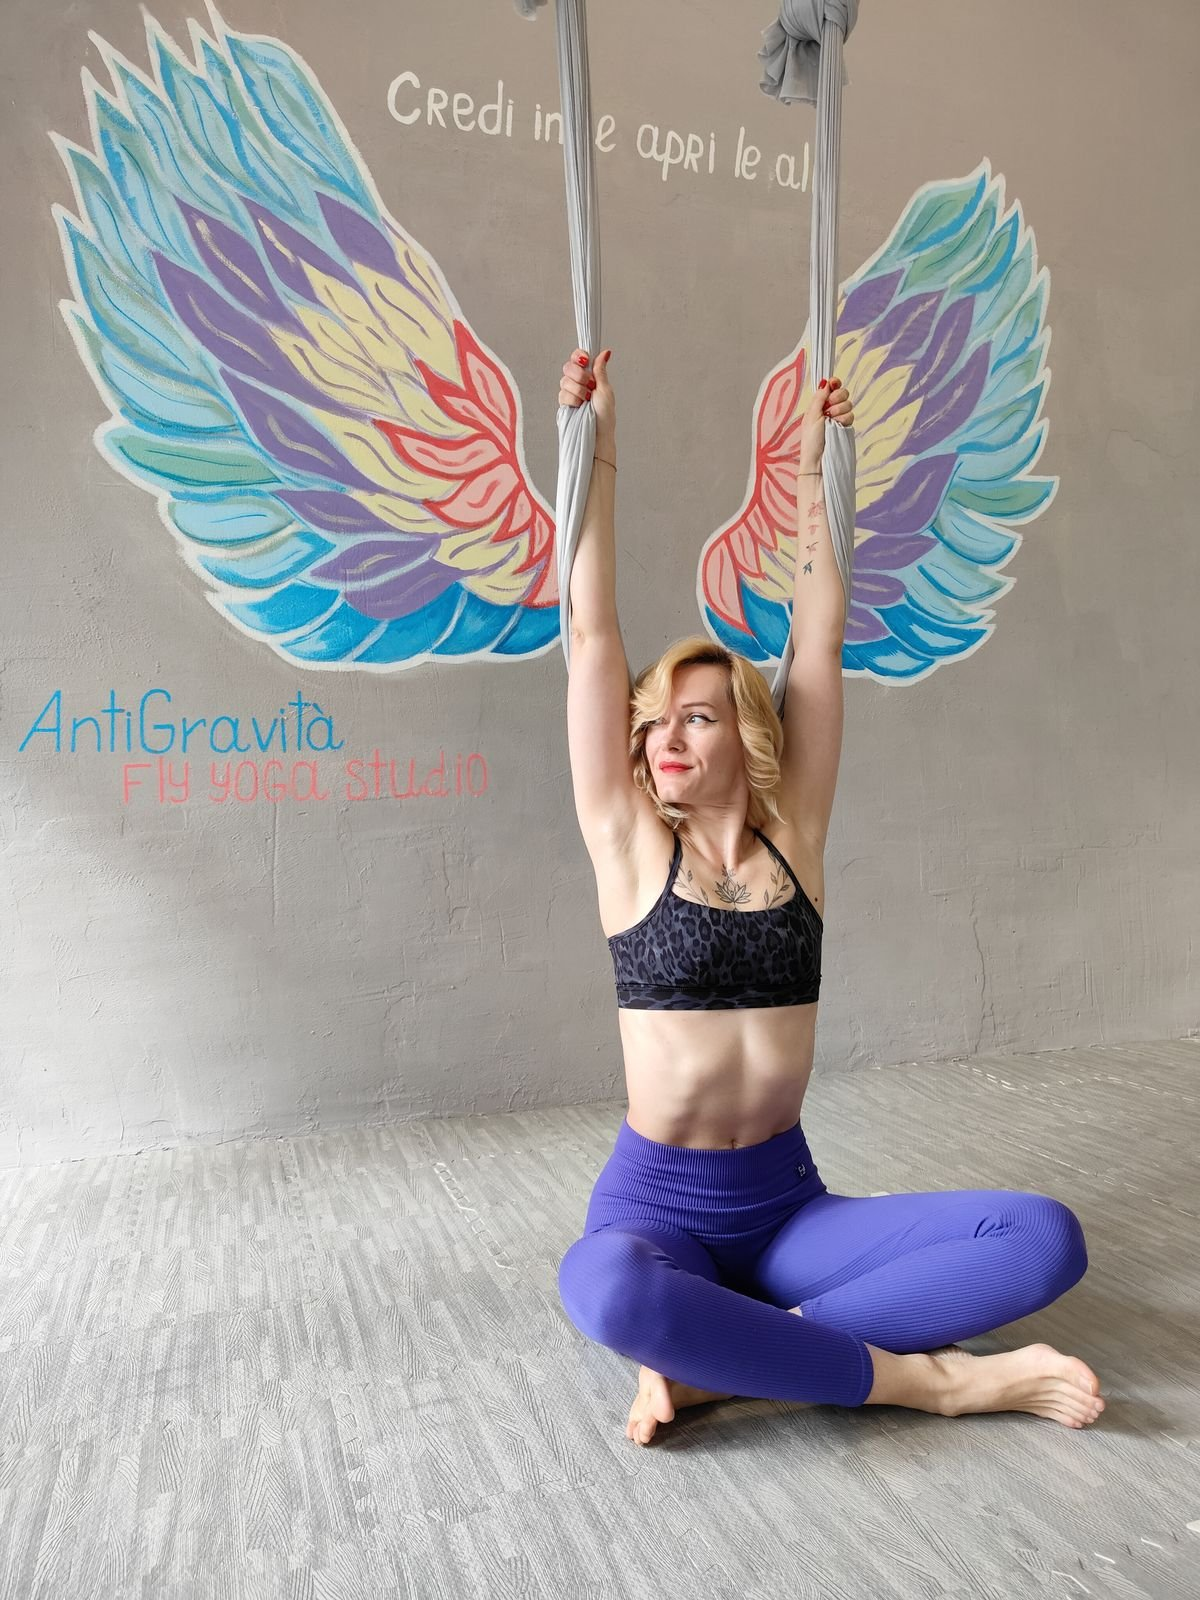
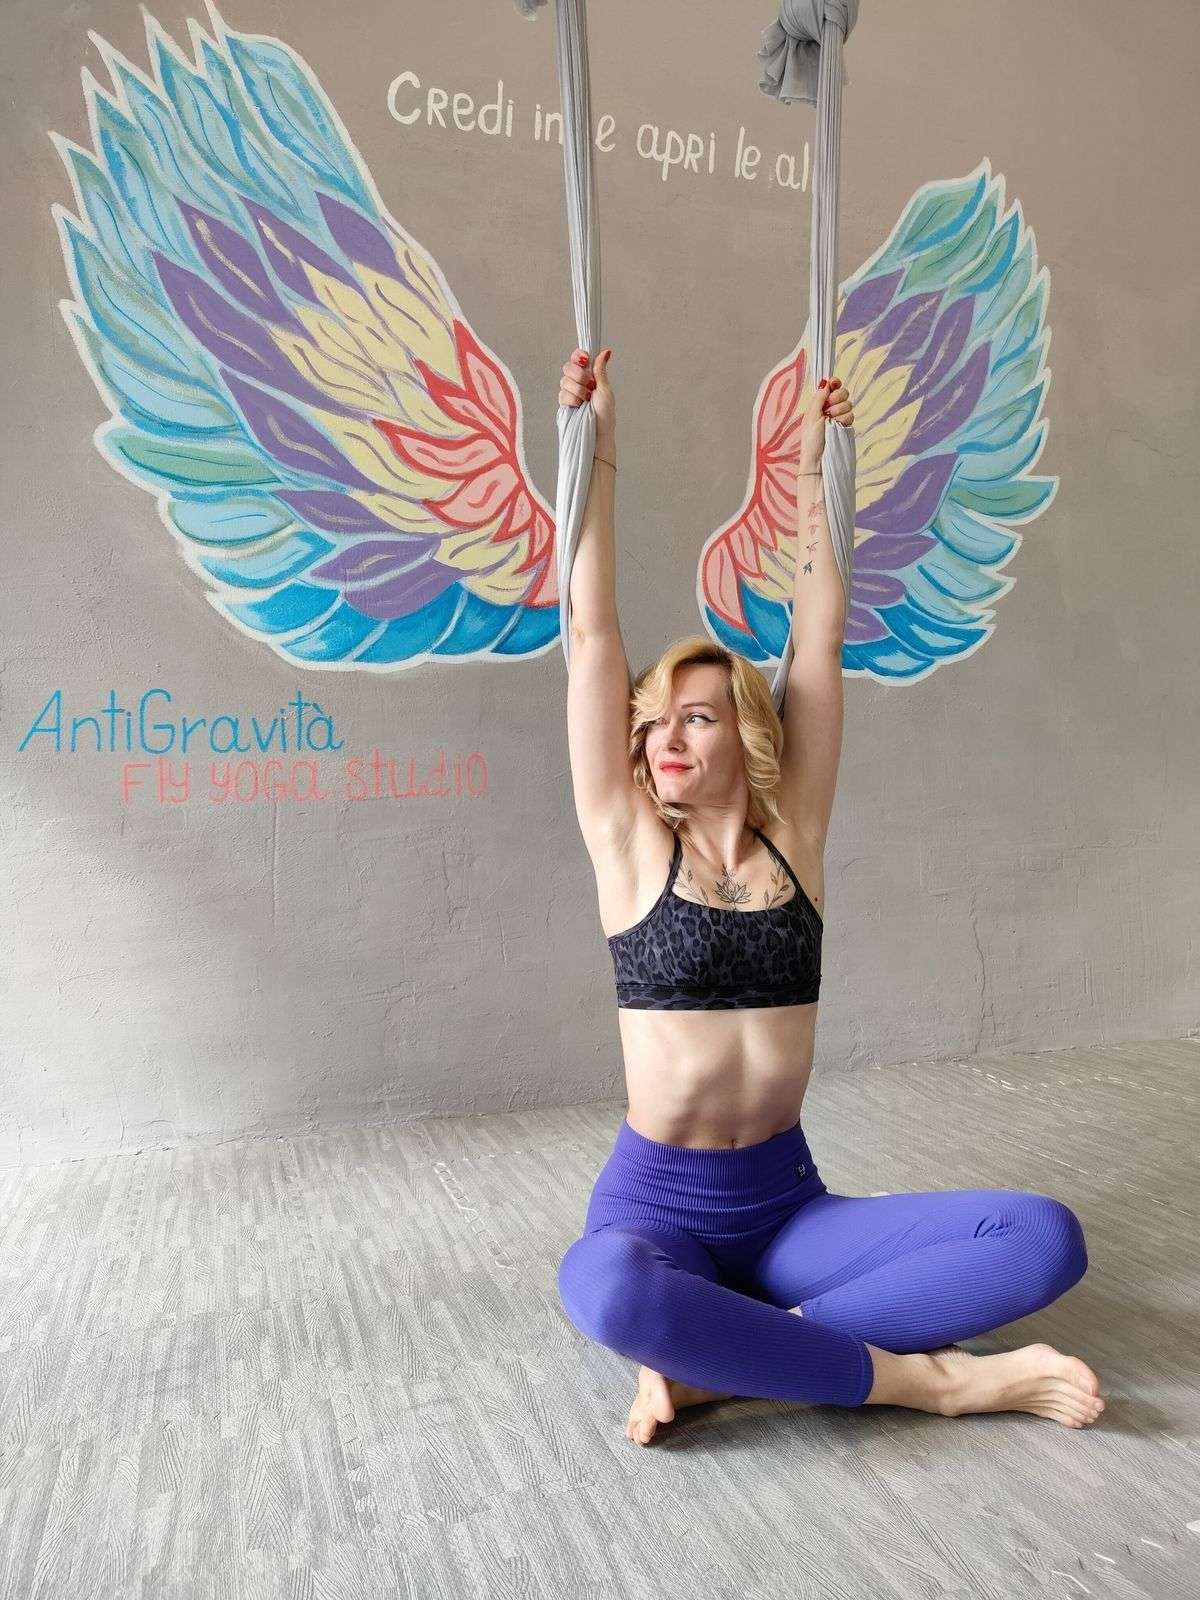
feat: optimize images and implement lazy loading for map
- Convert PNG images to JPG with appropriate quality settings to reduce file sizes
- Remove unused image files to clean up repository
- Replace image slider with static image for simpler implementation
- Implement lazy loading for Google Maps iframe to improve initial page load performance
- Update image references across HTML files to use optimized versions
- Add CSS for map placeholder facade with smooth transition
- Standardize image aspect ratios to prevent visual stretching

diff --git a/contatti.html b/contatti.html
@@ -174,36 +174,6 @@
         </section>
     </main>
 
-    <footer class="site-footer">
-        <div class="footer-content">
-            <div class="footer-info">
-                <h2>AntiGravità Fly Yoga</h2>
-                <p><strong>Indirizzo:</strong> Via Jacopo Cavalli 10/c, 34123 Trieste</p>
-                <p><strong>Telefono:</strong> +39 351 857 3757</p>
-                <p><strong>Email:</strong> <a href="mailto:AntiGravita.Fly@gmail.com">AntiGravita.Fly@gmail.com</a></p>
-                <p><strong>Orari:</strong> Vedi <a href="corsi-yoga-trieste">Corsi Yoga Trieste</a></p>
-                <div class="social-icons footer-social">
-                    <a href="https://www.facebook.com/people/Antigravita-Fly-yoga/61557041365775/" target="_blank" rel="noopener noreferrer" aria-label="Seguici su Facebook"><svg><use href="images/social-icons.svg#facebook"></use></svg></a>
-                    <a href="https://www.instagram.com/antigravita_flyyoga/#" target="_blank" rel="noopener noreferrer" aria-label="Seguici su Instagram"><svg><use href="images/social-icons.svg#instagram"></use></svg></a>
-                    <a href="https://wa.me/message/JEWWIAPMS4LUH1" target="_blank" rel="noopener noreferrer" aria-label="Contattaci su WhatsApp"><svg><use href="images/social-icons.svg#whatsapp"></use></svg></a>
-                    <a href="https://youtube.com/@antigravitaflyyoga?si=RKzEpfLxFcAZvHqu" target="_blank" rel="noopener noreferrer" aria-label="Guarda i nostri video su YouTube"><svg><use href="images/social-icons.svg#youtube"></use></svg></a>
-                </div>
-                <div style="margin-top: 1rem;">
-                     <a aria-label="Contattaci su WhatsApp" href="https://wa.me/message/JEWWIAPMS4LUH1" class="btn-prenota" target="_blank" rel="noopener noreferrer">Prenota online</a>
-                </div>
-            </div>
-            <div class="footer-map">
-                <iframe
-                    title="Mappa della sede AntiGravità Fly Yoga"
-                    src="https://www.google.com/maps/embed?pb=!1m18!1m12!1m3!1d2812.4876714559383!2d13.776899776191611!3d45.642431621012325!2m3!1f0!2f0!3f0!3m2!1i1024!2i768!4f13.1!3m3!1m2!1s0x477b6b7a62660a93%3A0x4611b97f6c66433!2sVia%20Jacopo%20Cavalli%2C%2010%2C%2034124%20Trieste%20TS%2C%20Italy!5e0!3m2!1sen!2s!4v1690000000000!5m2!1sen!2s"
-                    allowfullscreen=""
-                    loading="lazy"
-                    referrerpolicy="no-referrer-when-downgrade">
-                </iframe>
-            </div>
-        </div>
-    </footer>
-
     <script src="js/main.js"></script>
 </body>
 </html>

diff --git a/prezzi.html b/prezzi.html
@@ -10,7 +10,7 @@
     <link rel="stylesheet" href="css/prezzi.css">
     <link rel="stylesheet" href="css/modal.css">
     <link rel="canonical" href="https://antigravitaflyyoga.it/prezzi.html">
-    <link rel="preload" as="image" href="images/Listinoprezzi.png">
+    <link rel="preload" as="image" href="images/Listinoprezzi.jpg">
 
     <!-- Open Graph / Facebook -->
     <meta property="og:type" content="website">
@@ -87,7 +87,7 @@
         <section id="prezzi" class="page-section">
             <h1>Prezzi Fly Yoga e Massaggi Trieste</h1>
             <div class="pricing-container">
-                <img src="images/Listinoprezzi.png" alt="Listino Prezzi AntiGravità Fly Yoga Trieste: Lezione singola, abbonamenti mensili e trimestrali, massaggi olistici e decontratturanti" class="pricing-image" onclick="openImageModal(this.src)" width="1200" height="1698" fetchpriority="high">
+                <img src="images/Listinoprezzi.jpg" alt="Listino Prezzi AntiGravità Fly Yoga Trieste: Lezione singola, abbonamenti mensili e trimestrali, massaggi olistici e decontratturanti" class="pricing-image" onclick="openImageModal(this.src)" width="1200" height="1698" fetchpriority="high">
             </div>
             
             <!-- Internal Linking Section -->

diff --git a/js/main.js b/js/main.js
@@ -143,9 +143,39 @@ const initFaq = () => {
     });
 };
 
+// Lazy Load Map
+window.loadMap = (element) => {
+    const src = element.getAttribute('data-src');
+    const title = element.getAttribute('data-title');
+    
+    // Create iframe
+    const iframe = document.createElement('iframe');
+    iframe.src = src;
+    iframe.width = "100%";
+    iframe.height = "100%";
+    iframe.style.border = "0";
+    iframe.allowFullscreen = "";
+    iframe.loading = "lazy";
+    iframe.referrerPolicy = "no-referrer-when-downgrade";
+    iframe.title = title || "Google Maps";
+    
+    // Replace placeholder with iframe
+    const parent = element.parentNode;
+    
+    // Fade out placeholder
+    element.style.opacity = '0';
+    
+    setTimeout(() => {
+        // Clear parent content (remove placeholder) and append iframe
+        // But we need to keep the parent container size
+        parent.innerHTML = '';
+        parent.appendChild(iframe);
+    }, 300);
+};
+
 // Инициализация всех интерактивных элементов
 document.addEventListener('DOMContentLoaded', () => {
-    initSlideshow();
+    // initSlideshow(); // Disabled as we removed the slider
     initImageModal();
     initSmoothScroll();
     initFaq();

diff --git a/css/common.css b/css/common.css
@@ -261,6 +261,43 @@ p { font-size: clamp(1rem, 2vw, 1.1rem); }
     border: 0;
 }
 
+/* Footer Map Facade */
+.footer-map, .map-container {
+    background-color: #f0f0f0;
+    position: relative;
+}
+
+.map-placeholder {
+    width: 100%;
+    height: 100%;
+    background: linear-gradient(135deg, #f5f7fa 0%, #c3cfe2 100%);
+    display: flex;
+    align-items: center;
+    justify-content: center;
+    cursor: pointer;
+    position: absolute;
+    top: 0;
+    left: 0;
+    z-index: 10;
+    transition: opacity 0.3s ease;
+}
+
+.map-placeholder-content {
+    text-align: center;
+    background: rgba(255, 255, 255, 0.95);
+    padding: 1.5rem;
+    border-radius: 12px;
+    box-shadow: 0 4px 20px rgba(0,0,0,0.15);
+    max-width: 80%;
+}
+
+.map-placeholder-content p {
+    margin-bottom: 1rem;
+    font-weight: 600;
+    color: #333;
+    font-size: 1.1rem;
+}
+
 /* Медиа-запросы */
 @media screen and (max-width: 1024px) {
     .page-section {

diff --git a/css/fly-yoga.css b/css/fly-yoga.css
@@ -63,22 +63,11 @@
     align-items: flex-start;
 }
 
-.slideshow-container {
-    width: 100%;
-    max-width: 500px;
-    position: relative;
-    margin: auto;
-}
-
-.slide {
+.fly-yoga-image {
     width: 100%;
     height: auto;
     border-radius: 10px;
     box-shadow: 0 4px 8px rgba(0,0,0,0.1);
-    display: none;
-}
-
-.slide:first-child {
     display: block;
 }
 
@@ -92,12 +81,7 @@
         padding-right: 0;
     }
 
-    .slideshow-container {
-        max-width: 100%;
-        margin-top: 2rem;
-    }
-
-    .slide {
+    .fly-yoga-image {
         max-width: 100%;
         height: auto;
     }

diff --git a/massaggi-trieste.html b/massaggi-trieste.html
@@ -9,7 +9,7 @@
     <link rel="stylesheet" href="css/common.css">
     <link rel="stylesheet" href="css/massaggio.css">
     <link rel="canonical" href="https://antigravitaflyyoga.it/massaggi-trieste.html">
-    <link rel="preload" as="image" href="images/IMG_20250531_17253987.png">
+    <link rel="preload" as="image" href="images/IMG_20250531_17253987.jpg">
 
     <!-- Open Graph / Facebook -->
     <meta property="og:type" content="website">

diff --git a/chi-siamo.html b/chi-siamo.html
@@ -37,7 +37,7 @@
           "@type": "LocalBusiness",
           "name": "AntiGravità Fly Yoga Trieste"
         },
-        "image": "https://antigravitaflyyoga.it/images/chisono.png",
+        "image": "https://antigravitaflyyoga.it/images/chisono_opt.jpg",
         "description": "Insegnante di Fly Yoga originaria dell'Ucraina, residente a Trieste. Fondatrice dello studio AntiGravità Fly Yoga."
       }
     }

diff --git a/css/massaggio.css b/css/massaggio.css
@@ -70,7 +70,7 @@
 
 .collage-img {
     width: 100%;
-    height: auto; /* Allow natural height to prevent stretching perception */
+    aspect-ratio: 3/4; /* Standardize aspect ratio to prevent "stretched" look */
     object-fit: cover;
     border-radius: 10px; /* Slightly reduced radius for cleaner look */
     box-shadow: 0 4px 12px rgba(0,0,0,0.1); /* Softer shadow */

diff --git a/optimize_specific.py b/optimize_specific.py
@@ -1,0 +1,66 @@
+
+import os
+from PIL import Image
+
+image_dir = "images"
+files_to_convert = {
+    "anna0.png": {"quality": 80, "resize": (720, 1280)}, # Resize to target dimensions
+    "Listinoprezzi.png": {"quality": 90, "resize": None}, # Keep original size if text, high quality
+}
+
+files_to_delete = [
+    "anna1.png",
+    "anna2.png",
+    "anna3.png"
+]
+
+print("Starting optimization...")
+
+for f, options in files_to_convert.items():
+    path = os.path.join(image_dir, f)
+    if os.path.exists(path):
+        try:
+            img = Image.open(path)
+            rgb_im = img.convert('RGB')
+            
+            # Resize if needed
+            if options["resize"]:
+                # Maintain aspect ratio
+                target_w, target_h = options["resize"]
+                # Calculate new height based on width to keep aspect ratio
+                aspect_ratio = img.width / img.height
+                new_w = target_w
+                new_h = int(new_w / aspect_ratio)
+                
+                # If resizing makes it larger, skip
+                if new_w < img.width:
+                    rgb_im = rgb_im.resize((new_w, new_h), Image.Resampling.LANCZOS)
+                    print(f"Resized {f} to {new_w}x{new_h}")
+            
+            new_filename = os.path.splitext(f)[0] + ".jpg"
+            new_path = os.path.join(image_dir, new_filename)
+            rgb_im.save(new_path, quality=options["quality"], optimize=True)
+            
+            old_size = os.path.getsize(path)
+            new_size = os.path.getsize(new_path)
+            print(f"Converted {f} ({old_size//1024}KB) -> {new_filename} ({new_size//1024}KB)")
+            
+            # Delete original
+            os.remove(path)
+            print(f"Deleted original {f}")
+            
+        except Exception as e:
+            print(f"Error converting {f}: {e}")
+    else:
+        print(f"{f}: Not found")
+
+for f in files_to_delete:
+    path = os.path.join(image_dir, f)
+    if os.path.exists(path):
+        try:
+            os.remove(path)
+            print(f"Deleted unused file {f}")
+        except Exception as e:
+            print(f"Error deleting {f}: {e}")
+    else:
+        print(f"{f}: Already deleted")
